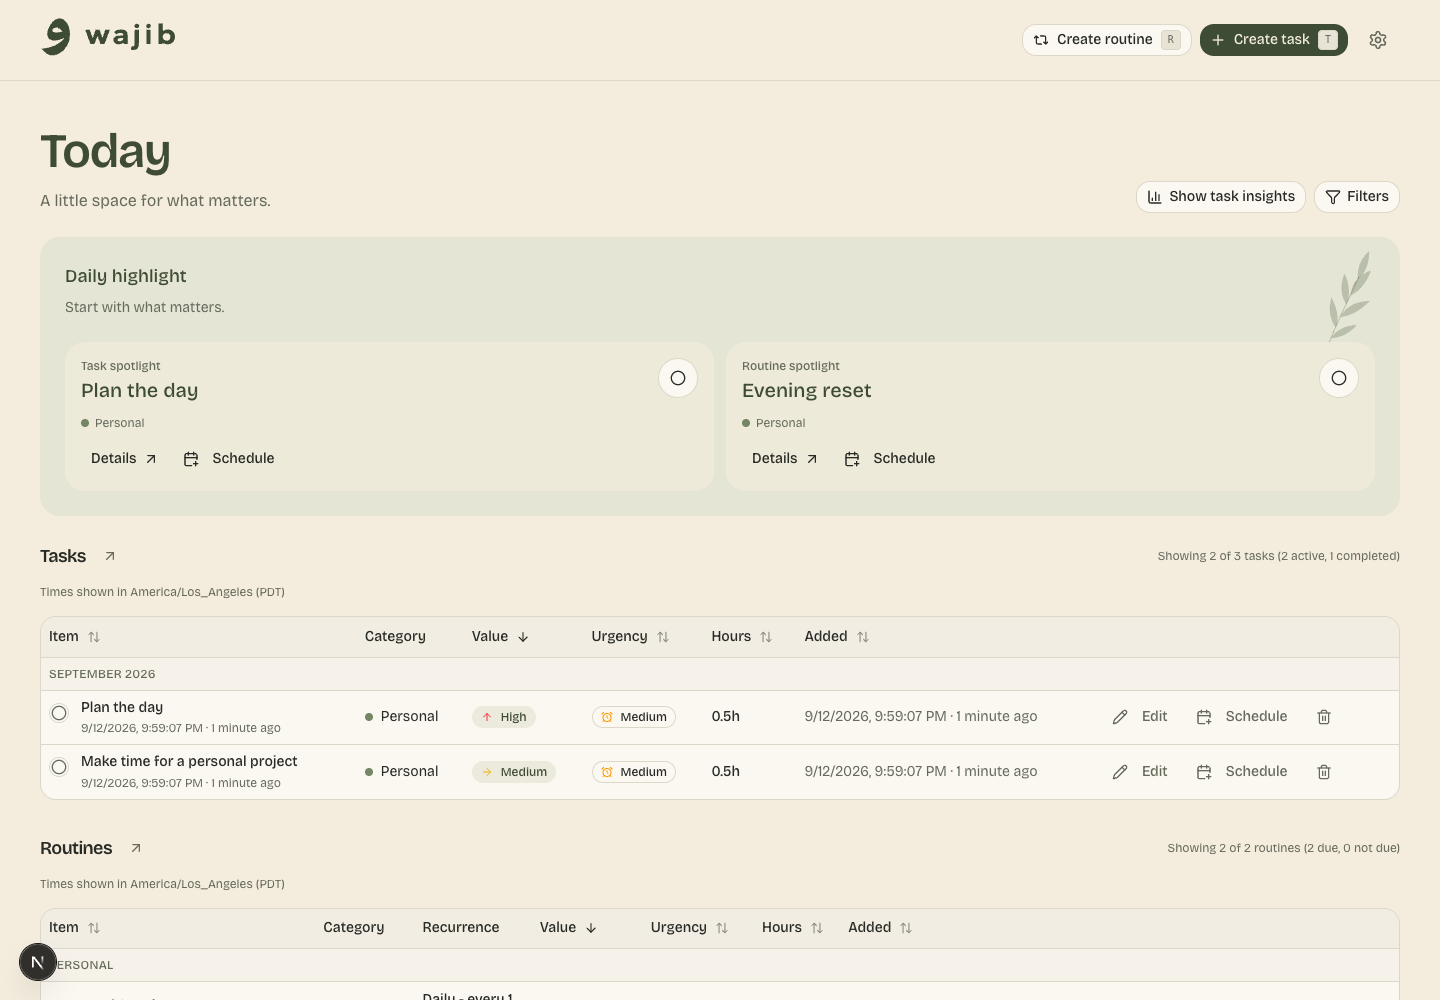
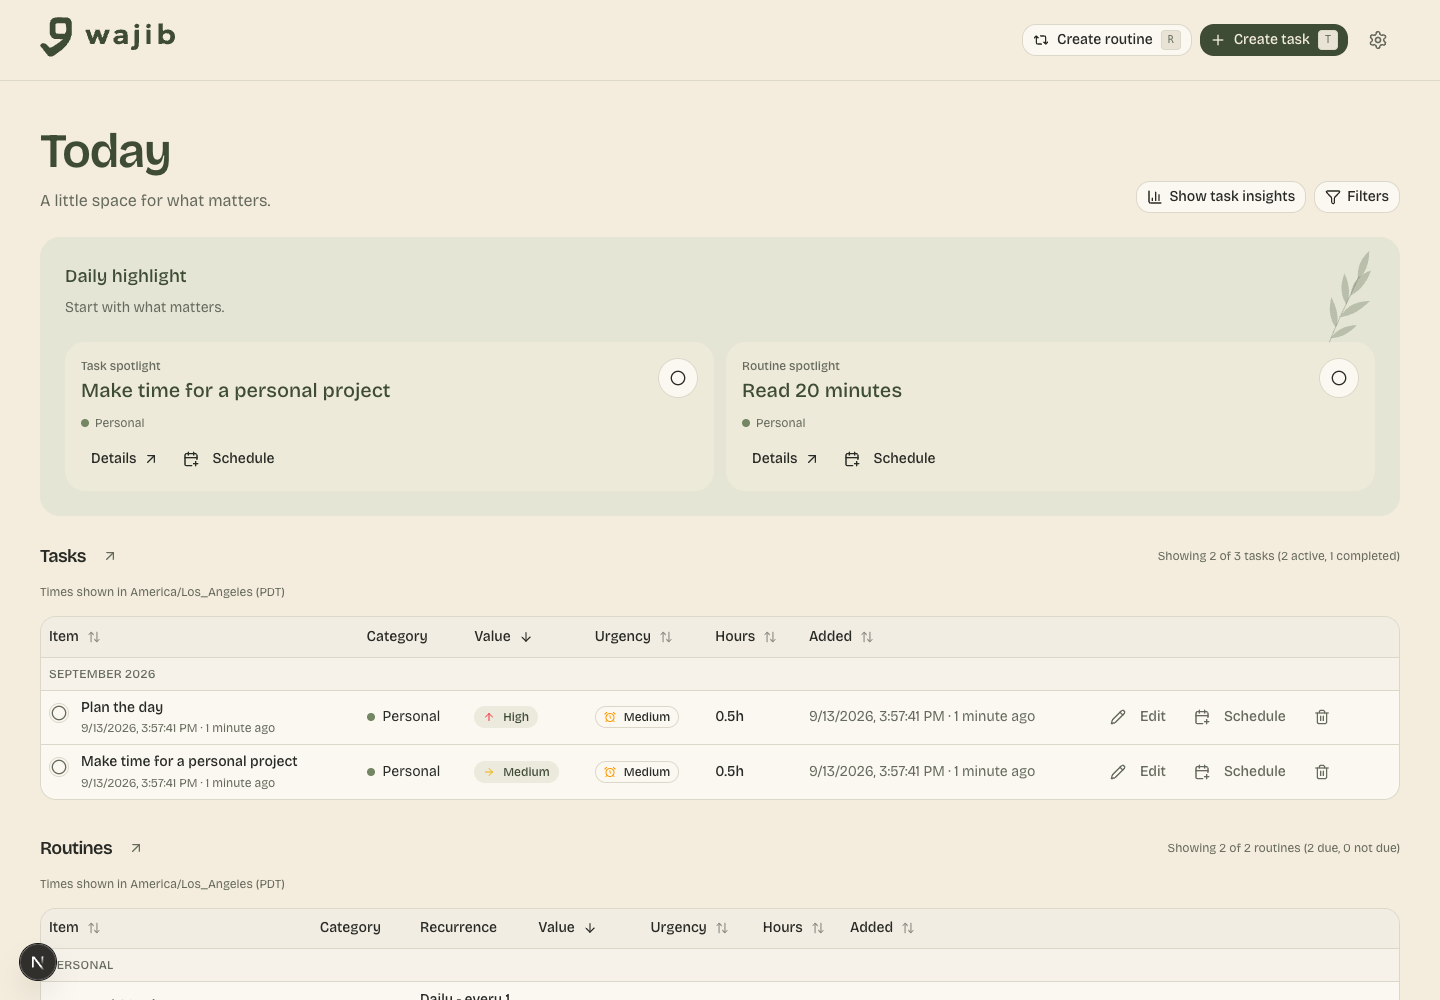
Adopt Soft Check mark across Wajib branding
Use the approved rounded checkbox head and checkmark tail for the app mark and Arabic wordmark. Regenerate icons and sharing assets, refresh the brand guide and previews, and update the service worker cache version.

diff --git a/lib/brand-paths.ts b/lib/brand-paths.ts
@@ -1,13 +1,15 @@
-// Approved With Intent lettering, converted to smooth vector outlines.
+// Approved Soft Check mark and With Intent lettering as smooth vector outlines.
 // Shared by the React components and scripts/generate-brand-assets.ts.
 
-export const WAW_VIEW_BOX = "0 0 258 330";
+export const WAW_VIEW_BOX = "-2 -2 438 542";
 export const WAW_PATH =
-  "M 143.432 12.480 C 112.311 19.252, 78.588 57.117, 63.646 102.065 C 49.853 143.555, 56.750 175.506, 82.169 187.876 C 104.646 198.814, 141.309 195.379, 185.236 178.219 C 199.420 172.678, 199.494 172.745, 190.522 183.033 C 171.580 204.752, 140.735 226.041, 108.986 239.308 C 79.737 251.530, 53.954 257.584, 17.724 260.736 L 8.949 261.500 18.810 273 C 59.026 319.898, 100.758 329.253, 152 302.855 C 210.022 272.965, 244.257 214.203, 244.257 144.500 C 244.257 61.044, 198.085 0.586, 143.432 12.480 M 125 87.135 C 105.414 90.346, 91.434 110.377, 101.829 120.336 C 111.030 129.151, 141.264 130.214, 173.250 122.848 C 178.063 121.740, 182 120.597, 182 120.308 C 182 118.935, 171.183 106.429, 165.460 101.185 C 157.530 93.918, 149.136 89.348, 140.270 87.469 C 132.735 85.873, 132.707 85.872, 125 87.135";
+  "M 206.450 1.444 C 169.610 8.228, 145.194 29.300, 134.771 63.305 C 132.596 70.402, 132.561 71.520, 132.214 145.500 C 131.835 226.178, 131.978 229.142, 136.939 243.160 C 144.886 265.619, 164.601 284.485, 188.500 292.501 C 202.369 297.154, 204.033 297.277, 261.252 297.902 L 316.004 298.500 303.912 308.500 C 270.860 335.832, 211.293 377.992, 174.143 400.344 C 153.140 412.981, 149.718 414.488, 142 414.495 C 133.568 414.502, 131.138 413.149, 115.785 399.896 C 56.170 348.436, 60.557 351.504, 47.591 352.200 C 31.859 353.045, 2.438 371.818, 0.479 382.261 C -0.472 387.332, -0.954 386.644, 42.996 443 C 104.147 521.412, 108.724 526.633, 121.543 532.594 C 143.458 542.785, 163.719 539.178, 194 519.693 C 338.955 426.419, 419.314 330.650, 432.464 235.500 C 435.368 214.490, 434.265 69.506, 431.118 58.500 C 423.047 30.275, 403.718 10.931, 375.500 2.837 L 367.500 0.543 290.500 0.344 C 230.950 0.190, 211.902 0.440, 206.450 1.444 M 231.500 79.917 C 223.804 81.837, 215.552 88.319, 211.665 95.500 C 209.524 99.456, 209.500 100.075, 209.500 151.500 L 209.500 203.500 212.449 208.824 C 215.898 215.049, 221.076 219.461, 228.040 222.107 C 233.802 224.297, 326.681 225.050, 334.177 222.967 C 344.687 220.049, 353.027 210.555, 354.985 199.281 C 356.624 189.844, 355.927 104.067, 354.168 98.797 C 352.075 92.526, 345.731 85.506, 339.307 82.351 L 333.500 79.500 284 79.335 C 256.775 79.244, 233.150 79.506, 231.500 79.917";
 
 export const ARABIC_VIEW_BOX = "0 0 805 354";
-export const ARABIC_PATH =
-  "M 618 14.062 C 611.125 18.458, 598.413 26.596, 589.750 32.147 L 574 42.238 574 160.726 C 574 264.312, 574.184 279.143, 575.463 278.653 C 580.760 276.620, 593.200 266.881, 603.073 257.038 C 616.963 243.189, 624.001 233.900, 627.726 224.500 L 630.500 217.500 630.777 129.500 C 630.930 81.100, 630.930 33.528, 630.777 23.784 L 630.500 6.068 618 14.062 M 393.286 110.451 C 378.663 115.021, 365.929 129.459, 352.672 156.500 L 350.221 161.500 363.360 161.539 C 378.608 161.585, 389.333 164.570, 408.052 173.977 C 426.979 183.490, 464.719 208.820, 462.243 210.350 C 455.359 214.604, 336.047 216.640, 325.778 212.678 C 314.610 208.369, 313.824 205.340, 313.093 163.776 L 312.500 130.051 289.500 147.510 C 274.126 159.180, 266.531 165.554, 266.594 166.734 C 266.645 167.705, 267.484 173, 268.457 178.500 C 272.395 200.746, 269.966 209.151, 258.627 212.518 C 251.007 214.781, 87.236 214.728, 78.460 212.460 C 61.152 207.986, 52.191 194.512, 51.082 171.296 L 50.500 159.091 42 166.149 C 37.325 170.030, 27.705 178.401, 20.623 184.750 L 7.746 196.293 8.380 202.361 C 11.089 228.281, 25.773 251.909, 45.022 261.323 C 60.428 268.857, 54.936 268.500, 155.500 268.500 C 256.721 268.500, 251.033 268.906, 268.716 260.420 C 276.092 256.881, 287.399 247.470, 288.520 243.936 C 289.463 240.965, 290.326 241.584, 292.449 246.754 C 296.525 256.680, 306.331 264.319, 319.231 267.617 C 327.691 269.780, 375.881 270.675, 397.188 269.065 C 427.776 266.753, 443.793 262.019, 513.259 234.760 L 532.018 227.399 539.319 214.449 C 543.335 207.327, 548.490 198.062, 550.775 193.861 L 554.930 186.222 549.251 185.512 C 530.545 183.175, 514.175 174.258, 474.209 144.632 C 449.577 126.374, 441.775 121.229, 430.764 115.987 C 416.561 109.224, 403.421 107.283, 393.286 110.451 M 719.500 125.348 C 680.460 138.256, 652.175 206.529, 671.132 242.096 C 681.981 262.452, 709.444 264.460, 753.241 248.100 C 762.035 244.816, 762.036 244.838, 753.540 255.037 C 735.683 276.474, 702.492 294.245, 666.847 301.453 C 652.715 304.310, 629.883 306.174, 620.031 305.274 L 613.562 304.683 615.433 307.591 C 627.709 326.672, 649.421 344.895, 667.291 351.116 C 678.026 354.853, 696.082 355.235, 707.846 351.975 C 736.546 344.022, 764.511 319.764, 779.660 289.682 C 799.472 250.341, 798.674 192.285, 777.810 155.144 C 771.841 144.516, 759.710 132.402, 750.558 127.929 C 742.534 124.007, 727.367 122.747, 719.500 125.348 M 704.748 181.374 C 696.029 184.608, 690.010 191.630, 690.004 198.576 C 689.996 206.678, 697.213 209.995, 714.876 210.009 C 727.973 210.020, 749 206.660, 749 204.558 C 749 203.884, 745.601 199.674, 741.448 195.203 C 729.488 182.330, 715.937 177.223, 704.748 181.374 M 406.676 289.824 L 391.877 304.647 406.974 319.574 C 415.277 327.783, 422.487 334.500, 422.995 334.500 C 424.126 334.500, 454 306.149, 454 305.075 C 454 303.537, 424.684 275, 423.104 275 C 422.208 275, 414.815 281.671, 406.676 289.824 M 153.693 294.028 C 147.294 300.139, 140.627 306.946, 138.877 309.155 L 135.696 313.171 150.586 328.086 C 158.775 336.289, 165.870 343, 166.352 343 C 167.729 343, 197 313.787, 197 312.414 C 197 311.023, 168.491 283.658, 166.573 283.208 C 165.889 283.048, 160.093 287.917, 153.693 294.028";
+// The remaining Arabic letters; the opening waw uses the shared Soft Check path.
+export const ARABIC_WAW_TRANSFORM = "translate(613 124) scale(0.425)";
+export const ARABIC_LETTERING_PATH =
+  "M 618 14.062 C 611.125 18.458, 598.413 26.596, 589.750 32.147 L 574 42.238 574 160.726 C 574 264.312, 574.184 279.143, 575.463 278.653 C 580.760 276.620, 593.200 266.881, 603.073 257.038 C 616.963 243.189, 624.001 233.900, 627.726 224.500 L 630.500 217.500 630.777 129.500 C 630.930 81.100, 630.930 33.528, 630.777 23.784 L 630.500 6.068 618 14.062 M 393.286 110.451 C 378.663 115.021, 365.929 129.459, 352.672 156.500 L 350.221 161.500 363.360 161.539 C 378.608 161.585, 389.333 164.570, 408.052 173.977 C 426.979 183.490, 464.719 208.820, 462.243 210.350 C 455.359 214.604, 336.047 216.640, 325.778 212.678 C 314.610 208.369, 313.824 205.340, 313.093 163.776 L 312.500 130.051 289.500 147.510 C 274.126 159.180, 266.531 165.554, 266.594 166.734 C 266.645 167.705, 267.484 173, 268.457 178.500 C 272.395 200.746, 269.966 209.151, 258.627 212.518 C 251.007 214.781, 87.236 214.728, 78.460 212.460 C 61.152 207.986, 52.191 194.512, 51.082 171.296 L 50.500 159.091 42 166.149 C 37.325 170.030, 27.705 178.401, 20.623 184.750 L 7.746 196.293 8.380 202.361 C 11.089 228.281, 25.773 251.909, 45.022 261.323 C 60.428 268.857, 54.936 268.500, 155.500 268.500 C 256.721 268.500, 251.033 268.906, 268.716 260.420 C 276.092 256.881, 287.399 247.470, 288.520 243.936 C 289.463 240.965, 290.326 241.584, 292.449 246.754 C 296.525 256.680, 306.331 264.319, 319.231 267.617 C 327.691 269.780, 375.881 270.675, 397.188 269.065 C 427.776 266.753, 443.793 262.019, 513.259 234.760 L 532.018 227.399 539.319 214.449 C 543.335 207.327, 548.490 198.062, 550.775 193.861 L 554.930 186.222 549.251 185.512 C 530.545 183.175, 514.175 174.258, 474.209 144.632 C 449.577 126.374, 441.775 121.229, 430.764 115.987 C 416.561 109.224, 403.421 107.283, 393.286 110.451 M 406.676 289.824 L 391.877 304.647 406.974 319.574 C 415.277 327.783, 422.487 334.500, 422.995 334.500 C 424.126 334.500, 454 306.149, 454 305.075 C 454 303.537, 424.684 275, 423.104 275 C 422.208 275, 414.815 281.671, 406.676 289.824 M 153.693 294.028 C 147.294 300.139, 140.627 306.946, 138.877 309.155 L 135.696 313.171 150.586 328.086 C 158.775 336.289, 165.870 343, 166.352 343 C 167.729 343, 197 313.787, 197 312.414 C 197 311.023, 168.491 283.658, 166.573 283.208 C 165.889 283.048, 160.093 287.917, 153.693 294.028";
 
 export const LATIN_VIEW_BOX = "0 0 369 108";
 export const LATIN_PATH =

diff --git a/scripts/generate-brand-assets.ts b/scripts/generate-brand-assets.ts
@@ -3,7 +3,8 @@ import sharp from "sharp";
 
 import { brand } from "../lib/brand";
 import {
-  ARABIC_PATH,
+  ARABIC_LETTERING_PATH,
+  ARABIC_WAW_TRANSFORM,
   ARABIC_VIEW_BOX,
   LATIN_PATH,
   LATIN_VIEW_BOX,
@@ -18,6 +19,8 @@ const svg = (viewBox: string, body: string, label = "Wajib") =>
   `<svg xmlns="http://www.w3.org/2000/svg" viewBox="${viewBox}" fill-rule="evenodd" role="img" aria-label="${label}">${body}</svg>\n`;
 const shape = (path: string, color: string) =>
   `<path fill="${color}" d="${path}"/>`;
+const arabicArtwork = (color: string) =>
+  `${shape(ARABIC_LETTERING_PATH, color)}<g transform="${ARABIC_WAW_TRANSFORM}">${shape(WAW_PATH, color)}</g>`;
 const save = (name: string, content: string | Buffer) =>
   writeFile(new URL(name, output), content);
 const raster = async (name: string, source: string, size: number) =>
@@ -34,7 +37,7 @@ for (const [name, color] of Object.entries({
   await save(`mark-${name}.svg`, svg(WAW_VIEW_BOX, shape(WAW_PATH, color)));
   await save(
     `wordmark-arabic-${name}.svg`,
-    svg(ARABIC_VIEW_BOX, shape(ARABIC_PATH, color), "واجب"),
+    svg(ARABIC_VIEW_BOX, arabicArtwork(color), "واجب"),
   );
   await save(
     `wordmark-latin-${name}.svg`,
@@ -44,7 +47,7 @@ for (const [name, color] of Object.entries({
     `lockup-${name}.svg`,
     svg(
       "0 0 805 495",
-      `${shape(ARABIC_PATH, color)}<g transform="translate(218 387)">${shape(LATIN_PATH, color)}</g>`,
+      `${arabicArtwork(color)}<g transform="translate(218 387)">${shape(LATIN_PATH, color)}</g>`,
       "Wajib — واجب",
     ),
   );
@@ -93,7 +96,7 @@ await raster(
 // All letterforms in the share card are paths; no fonts or raster logo embeds.
 const social = svg(
   "0 0 1200 630",
-  `<rect width="1200" height="630" fill="${brand.colors.limestone}"/><g transform="translate(330 104) scale(.67)">${shape(ARABIC_PATH, brand.colors.olive)}<g transform="translate(218 387)">${shape(LATIN_PATH, brand.colors.olive)}</g></g><path d="M470 515h260" stroke="${brand.colors.clay}" stroke-width="3"/>`,
+  `<rect width="1200" height="630" fill="${brand.colors.limestone}"/><g transform="translate(330 104) scale(.67)">${arabicArtwork(brand.colors.olive)}<g transform="translate(218 387)">${shape(LATIN_PATH, brand.colors.olive)}</g></g><path d="M470 515h260" stroke="${brand.colors.clay}" stroke-width="3"/>`,
 );
 await save("social-card.svg", social);
 await save(
@@ -101,5 +104,5 @@ await save(
   await sharp(Buffer.from(social)).resize(1200, 630).png().toBuffer(),
 );
 console.log(
-  "Generated the With Intent SVG, PNG, favicon, install and social assets.",
+  "Generated the Soft Check SVG, PNG, favicon, install and social assets.",
 );

diff --git a/components/brand/brand-logo.tsx b/components/brand/brand-logo.tsx
@@ -2,7 +2,8 @@ import type { SVGProps } from "react";
 
 import { cn } from "@/lib/utils";
 import {
-  ARABIC_PATH,
+  ARABIC_LETTERING_PATH,
+  ARABIC_WAW_TRANSFORM,
   LATIN_PATH,
   LATIN_VIEW_BOX,
   WAW_PATH,
@@ -55,7 +56,8 @@ export function BrandLockup({ className }: { className?: string }) {
       aria-label="Wajib — واجب"
       className={cn("text-primary", className)}
     >
-      <path d={ARABIC_PATH} />
+      <path d={ARABIC_LETTERING_PATH} />
+      <path d={WAW_PATH} transform={ARABIC_WAW_TRANSFORM} />
       <path d={LATIN_PATH} transform="translate(218 387)" />
     </svg>
   );

diff --git a/public/sw.js b/public/sw.js
@@ -1,5 +1,5 @@
-const STATIC_CACHE = "wajib-static-with-intent-v2";
-const RUNTIME_CACHE = "wajib-runtime-with-intent-v2";
+const STATIC_CACHE = "wajib-static-soft-check-v3";
+const RUNTIME_CACHE = "wajib-runtime-soft-check-v3";
 const OFFLINE_URL = "/offline";
 const PRECACHE_URLS = [
   OFFLINE_URL,

diff --git a/docs/branding/README.md b/docs/branding/README.md
@@ -1,10 +1,10 @@
-# Wajib · With Intent
+# Wajib · Soft Check
 
-Approved brand direction: the Arabic **و** mark, a bilingual **واجب / wajib** wordmark, and warm olive and limestone surfaces. The English/Arabic pairing connects Wajib to Ahmad's bilingual portfolio; the application uses the same Bricolage Grotesque family.
+Approved mark: **Soft Check**, an Arabic **و** with a rounded checkbox head and a checkmark tail. It appears both on its own and as the first letter of the bilingual **واجب / wajib** wordmark. The With Intent palette and typography continue: warm olive and limestone surfaces, and the same Bricolage Grotesque family as Ahmad's bilingual portfolio.
 
 ## Logo assets
 
-All production artwork is vector outlines, with no embedded raster image or required font. The approved letterforms are preserved in [`lib/brand-paths.ts`](../../lib/brand-paths.ts). The letter counters use the SVG `evenodd` fill rule; preserve it when importing the paths into another design tool.
+All production artwork is vector outlines, with no embedded raster image or required font. The approved letterforms are preserved in [`lib/brand-paths.ts`](../../lib/brand-paths.ts). The standalone mark and Arabic wordmark use the same `WAW_PATH`; `ARABIC_WAW_TRANSFORM` positions it beside the remaining letters. The letter counters use the SVG `evenodd` fill rule; preserve it when importing the paths into another design tool.
 
 Assets live in [`public/logos`](../../public/logos):
 

diff --git a/README.md b/README.md
@@ -4,7 +4,7 @@ Wajib is a modern task and routine manager built with Next.js 16, Supabase, and 
 
 ## Highlights
 
-- **With Intent identity:** An original Arabic waw mark, bilingual wordmark, and warm olive/limestone light and forest/sage dark themes. [Brand assets and usage guide](docs/branding/README.md).
+- **Soft Check identity:** An Arabic waw mark with a rounded checkbox head and checkmark tail, a bilingual wordmark, and warm olive/limestone light and forest/sage dark themes. [Brand assets and usage guide](docs/branding/README.md).
 
 - **Personalized dashboard:** Filter by category, completion status, or grouping (day/week/month) to focus on the work that matters most.
 - **Task + routine support:** Create one-off tasks or recurring routines with priorities, recurrence types, and inline editing.
